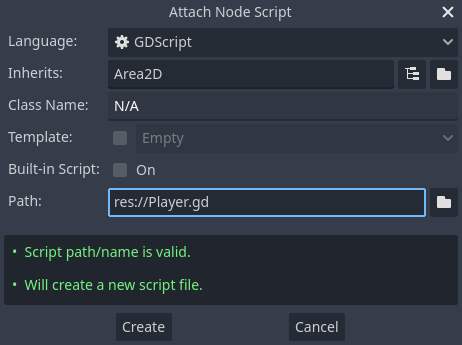
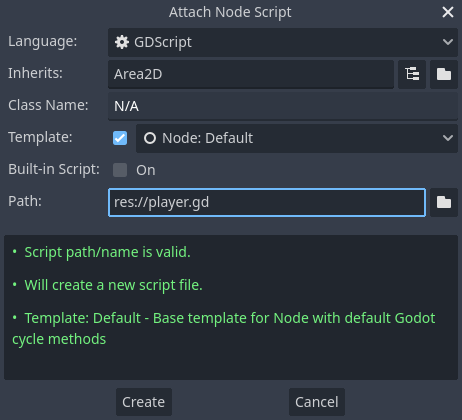
update outdated images and add clarification

diff --git a/getting_started/first_2d_game/03.coding_the_player.rst b/getting_started/first_2d_game/03.coding_the_player.rst
@@ -104,6 +104,11 @@ value written in the script.
 
 .. image:: img/export_variable.webp
 
+Your ``player.gd`` script should already contain
+a ``_ready()`` and a ``_process()`` function.
+If you didn't select the default template shown above,
+create these functions while following the lesson.
+
 The ``_ready()`` function is called when a node enters the scene tree, which is
 a good time to find the size of the game window:
 
